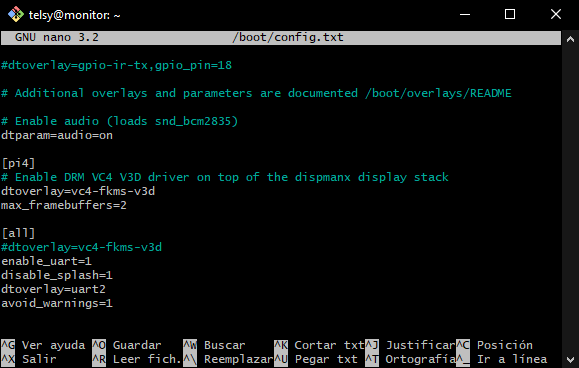
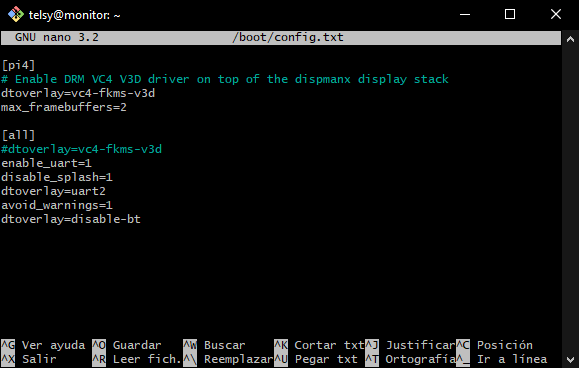
Temperature parameter

Changed region(s): [[0.0, 0.1495, 0.9016, 0.837]]

diff --git a/telsy/monitor/raspberry/create_json.py b/telsy/monitor/raspberry/create_json.py
@@ -20,6 +20,7 @@ ecg_txt.close()
 lines_file = file.readlines()
 length_file = len(lines_file)-1
 file.close()
+temp = []
 spo2 = []
 rr = []
 nibp = []
@@ -30,6 +31,8 @@ current_date = datetime.now(timezone('America/Bogota')).strftime('%d/%m/%Y')
 for i in range(length_file, 0, -1):
     if lines_file[i].find('RR') == 0:
         rr.append(lines_file[i].replace('\n', '').replace('RR,', ''))
+    elif lines_file[i].find('TEMP') == 0:
+        temp.append(lines_file[i].replace('\n', '').replace('TEMP,', ''))
     elif lines_file[i].find('SPO2') == 0:
         spo2.append(lines_file[i].replace('\n', '').replace('SPO2,', ''))
     elif lines_file[i].find('NIBP') == 0:
@@ -38,6 +41,8 @@ for i in range(length_file, 0, -1):
 
 if len(rr) == 0:
     rr.append('0')
+if len(temp) ==  0:
+    temp.append('0')
 if len(spo2) == 0:
     spo2.append('0S0')
 if len(nibp) == 0:

diff --git a/telsy/telsy/urls.py b/telsy/telsy/urls.py
@@ -30,6 +30,7 @@ handler404 = 'monitor.views.error_404'
 handler500 = 'monitor.views.error_500'
 
 urlpatterns = [
+    path('battery/', include('battery.urls')),
     path('cancel/',views.cancel_measurement),
     path('connected/',views.connected),
     path('connecting/<ssid>',views.connecting),
@@ -57,5 +58,4 @@ urlpatterns = [
     path('user/', views.user),
     path('weight/',views.weight),
     path('weightc/',views.weight_confirmation),
-    path('battery/', include('battery.urls')),
 ]

diff --git a/telsy/monitor/raspberry/measure_nibp.py b/telsy/monitor/raspberry/measure_nibp.py
@@ -42,6 +42,9 @@ try:
         # Respiration rate
         if ((data == b'\x11') and TIME_FLARG):
             file.write('RR,'+serial_read(data)+'\n')
+        # Temperature
+        if data == b'\x15':
+            file.write('TEMP,'+serial_read(data)+'\n')
         # SPO2
         if ((data == b'\x17') and TIME_FLARG):
             file.write('SPO2,'+serial_read(data)+'\n')

diff --git a/telsy/monitor/raspberry/measure_ecg.py b/telsy/monitor/raspberry/measure_ecg.py
@@ -38,6 +38,9 @@ try:
         # Respiration rate
         if data == b'\x11':
             file.write('RR,'+serial_read(data)+'\n')
+        # Temperature
+        if data == b'\x15':
+            file.write('TEMP,'+serial_read(data)+'\n')
         # SPO2
         if data == b'\x17':
             file.write('SPO2,'+serial_read(data)+'\n')

diff --git a/README.md b/README.md
@@ -127,7 +127,7 @@ sudo apt-get install -y xscreensaver plymouth plymouth-themes pix-plym-splash
 sudo apt-get remove -y lxplug-ptbatt
 ```
 ```
-sudo pip3 install Django==3.2.13 wifi smbus pyserial RPi.GPIO pytz
+sudo pip3 install Django==3.2.15 wifi smbus pyserial RPi.GPIO pytz
 ```
 
 ### Step 5. Edit the boot config.txt file
@@ -141,6 +141,7 @@ And add the following at the last line (the shortcut to paste is `Shift + Insert
 disable_splash=1
 dtoverlay=uart2
 avoid_warnings=1
+dtoverlay=disable-bt
 ```
 The last lines should look like this:
 
@@ -167,7 +168,7 @@ logo.nologo vt.global_cursor_default=0
 ```
 sudo nano /usr/share/plymouth/themes/pix/pix.script
 ```
-Remove the following (stay at the line to remove and press `Ctrl+K`):
+Remove the following (stay at the line to remove and press <kbd>Ctrl+K</kbd>):
 ```
 message_sprite = Sprite();
 message_sprite.SetPosition(screen_width * 0.1, screen_height * 0.9, 10000);
